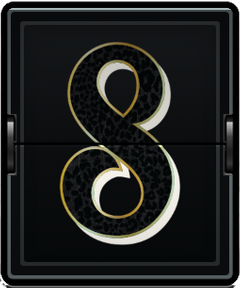
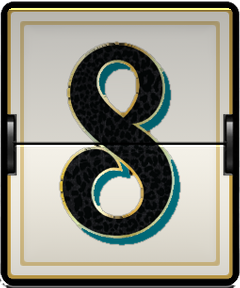
Drafts: career points chip, aligned team column with divider, "via" box; BBP seed tiles all white
- career.mjs (CI): career fantasy points of every drafted player (Sleeper season totals 2009-now,
  league scoring) -> career.json; run in BBP weekly/history and YILM replay
- Pick row: chip under the name on phones, inline on desktop; team column one fixed width behind
  a divider so avatars line up; "from X" replaced by a gold VIA box
- Name fitter checks the name itself (names were silently clipped); shrinks to 13px then wraps
- BBP: seed tiles use the white split-flap set for all seeds (lossless, bit-identical)

Claude-Session: https://claude.ai/code/session_01WQLdFQZ8MkKnuqWv7ZmMze

diff --git a/pipeline/draft_build.py b/pipeline/draft_build.py
@@ -1,7 +1,8 @@
 import os as _dt_os;__DTP__=_dt_os.path.dirname(_dt_os.path.abspath(__file__)).removesuffix('/pos')+'/'
 # Drafts tab: every league draft from the 2021 startup on (history/drafts.json, written by drafts.mjs).
 # One button per year; each draft is listed round by round: pick number (tile in the player's position colour), player,
-# NFL team, and the team that made the pick, with "from <team>" when the pick was traded (original owner).
+# NFL team, career points chip (career.json), and the team that made the pick, with a "via <team>" box when the pick was
+# traded (original owner). The team column has one fixed width behind a divider, so the avatars line up down the round.
 # MFL drafts: the original owner comes from MFL's own note "Pick traded from <name>" (that season's team names).
 # Writes draft_section.html and draft_css.css. Also importable: section(years=None) for the season archive pages.
 import json,html,re
@@ -14,6 +15,17 @@ except Exception:OWN={}
 try:
     import sys;sys.path.insert(0,P);import lg as _lg;OWN=OWN or dict(getattr(_lg,'NICK',{}) or {})
 except Exception:pass
+# career points per drafted player (career.mjs -> career.json; built in CI, absent offline)
+try:CAR=json.load(open(P+'career.json',encoding='utf-8'))
+except Exception:CAR={}
+def _nk(n):
+    n=re.sub(r"[.'’`,]",'',str(n or '').lower()).replace('-',' ');n=re.sub(r'\b(jr|sr|ii|iii|iv|v)\b','',n);return re.sub(r'\s+',' ',n).strip()
+def career(pl,pos):
+    c=CAR.get(_nk(pl)+'|'+({'PK':'K','Def':'DEF'}.get(pos,pos) or ''))
+    if not c:return ''
+    pts,gp,ns,y0,y1,part=c
+    t=(f'Career fantasy points in this league\'s scoring: {pts:,.1f} in {gp} games' + (f', {y0}-{y1}' if y0 else '') + (' (stats from 2009 on)' if part else ''))
+    return f'<span class="dfcp{" z" if not gp else ""}" title="{e(t)}"><b>{pts:,.0f}</b><i>pts</i></span>'
 PC={'QB':'#f7739c','RB':'#3ddcc1','WR':'#5ec6f4','TE':'#fca95c','K':'#c491ff','DEF':'#c98a72','PK':'#c491ff','Def':'#c98a72'}
 NFLFIX={'KCC':'KC','GBP':'GB','NOS':'NO','NEP':'NE','SFO':'SF','TBB':'TB','LVR':'LV','JAC':'JAX','WSH':'WAS','LA':'LAR','FA':None,'FA*':None}
 from nfl_colors import badge_c as badge
@@ -59,8 +71,8 @@ def year_panel(y,d):
         rr=sorted([r for r in rows if r[0]==rd],key=lambda r:r[1])
         out.append(f'<div class="dfr"><div class="dfrh">Round {rd}</div>'+''.join(
             f'<div class="dfp" style="--pc:{PC.get(pos or "", "var(--hair)")}"><i class="dfn"><b>{rd}.{pk:02d}</b><span>{e(pos or "")}</span></i>'
-            f'<div class="dfpl"><b>{e(pl)}</b>{badge(nfl) if nfl else ""}</div>'
-            f'<div class="dfby"><i class="pav" data-avt="{e(by)}" aria-hidden="true"></i><span><b>{e(own(by))}</b>'+(f'<small>from {e(own(orig))}</small>' if orig!=by else '')+'</span></div></div>'
+            f'<div class="dfpl"><span class="dfpn"><b>{e(pl)}</b>{badge(nfl) if nfl else ""}</span>{career(pl,pos)}</div>'
+            f'<div class="dfby"><i class="pav" data-avt="{e(by)}" aria-hidden="true"></i><span><b>{e(own(by))}</b>'+(f'<small class="dfvia"><i>via</i>{e(own(orig))}</small>' if orig!=by else '')+'</span></div></div>'
             for rd_,pk,slot,orig,by,pl,pos,nfl in rr)+'</div>')
     return ''.join(out)
 def section(years=None,idp='df'):
@@ -107,11 +119,29 @@ CSS="""
 .dfs .pav{display:block;border-radius:50%;background-color:var(--deck-2);background-position:center;background-size:cover;background-repeat:no-repeat;box-shadow:0 0 0 1px var(--line-strong)}
 @media(max-width:380px){.dfp{grid-template-columns:42px minmax(0,1fr) auto;column-gap:8px;padding-right:10px}.dfpl b{font-size:14px}.dfby .pav{width:22px;height:22px}}
 @media(min-width:760px){.dfos{grid-template-columns:repeat(10,minmax(0,1fr))}.dfr .dfp{min-height:50px}}
+/* 2026-11-03: team column = one fixed width behind a divider (avatars line up down the round), "via" box for traded
+   picks, career points chip after the NFL badge */
+.dfp{grid-template-columns:46px minmax(0,1fr) var(--dfbw,140px);padding-right:0}
+.dfpl{padding-right:10px;flex-direction:column;align-items:flex-start;justify-content:center;gap:5px;padding-top:7px;padding-bottom:7px}
+.dfpn{display:flex;align-items:center;gap:6px;min-width:0;max-width:100%}
+.dfpn b[style*="normal"]{line-height:1.15!important;overflow:visible!important}
+@media(min-width:760px){.dfpl{flex-direction:row;align-items:center;gap:8px;padding-top:0;padding-bottom:0}}
+.dfby{justify-self:stretch;align-self:stretch;justify-content:flex-start;gap:9px;padding:6px 10px 6px 12px;border-left:3px solid var(--pg,#0c1316);background:rgba(0,0,0,.13)}
+.dfby .pav{width:28px;height:28px}
+.dfby span{gap:4px;zoom:var(--dfz,1)}
+.dfvia{display:inline-flex;align-items:baseline;gap:4px;padding:3px 6px 2px;border-radius:4px;background:rgba(201,161,90,.12);box-shadow:inset 0 0 0 1px rgba(201,161,90,.45);font:600 11px/1 var(--display)!important;letter-spacing:.04em;text-transform:uppercase;color:#d9b568!important}
+.dfvia i{font-style:normal;font-weight:700;font-size:9.5px;color:rgba(217,181,104,.7)}
+.dfcp{flex:none;display:inline-flex;align-items:baseline;gap:3px;padding:3px 6px 2px;border-radius:5px;background:var(--deck-2);box-shadow:inset 0 0 0 1px var(--line-strong),0 1px 0 rgba(0,0,0,.35);font-family:var(--display);line-height:1}
+.dfcp b{font:700 12.5px/1 var(--display)!important;color:var(--chalk)!important;font-variant-numeric:tabular-nums}
+.dfcp i{font-style:normal;font-weight:600;font-size:9.5px;letter-spacing:.06em;text-transform:uppercase;color:var(--steel)}
+.dfcp.z b{color:var(--steel)!important}
+@media(max-width:420px){.dfp{--dfbw:124px}.dfby{padding:6px 8px 6px 10px;gap:7px}.dfby .pav{width:26px;height:26px}}
+@media(max-width:380px){.dfp{--dfbw:112px}.dfby{padding:6px 6px 6px 8px;gap:6px}.dfby .pav{width:22px;height:22px}.dfvia{font-size:10px!important;padding:2px 4px 1px}.dfcp b{font-size:11.5px!important}}
 """
 if __name__=='__main__':
     s=section()
     if s:
-        open(P+'draft_section.html','w',encoding='utf-8').write(s[0]+'<script>(function(){function f(){document.querySelectorAll(".dfpl b").forEach(function(b){b.style.fontSize="";var p=b.parentElement,s=parseFloat(getComputedStyle(b).fontSize);while(p.scrollWidth>p.clientWidth+.5&&s>11){s-=.5;b.style.fontSize=s+"px"}})}f();addEventListener("resize",function(){requestAnimationFrame(f)});document.addEventListener("change",function(){requestAnimationFrame(f)});document.fonts&&document.fonts.ready.then(f)})()</script>')
+        open(P+'draft_section.html','w',encoding='utf-8').write(s[0]+'<script>(function(){function f(){document.querySelectorAll(".dfpl b").forEach(function(b){if(!b.offsetParent)return;b.style.fontSize="";b.style.whiteSpace="";var p=b.parentElement,s0=parseFloat(getComputedStyle(b).fontSize),s=s0,o=function(){return b.scrollWidth>b.clientWidth+.5||p.scrollWidth>p.clientWidth+.5};while(o()&&s>13){s-=.5;b.style.fontSize=s+"px"}if(o()){b.style.fontSize="";b.style.whiteSpace="normal"}});document.querySelectorAll(".dfby").forEach(function(c){if(!c.offsetParent)return;c.style.removeProperty("--dfz");var z=1;while(c.scrollWidth>c.clientWidth+.5&&z>.7){z-=.04;c.style.setProperty("--dfz",z.toFixed(2))}})}f();addEventListener("resize",function(){requestAnimationFrame(f)});document.addEventListener("change",function(){requestAnimationFrame(f)});document.fonts&&document.fonts.ready.then(f)})()</script>')
         open(P+'draft_css.css','w',encoding='utf-8').write(CSS+s[1])
         print('drafts',len(D))
     else:print('no drafts')

diff --git a/pipeline/run.py b/pipeline/run.py
@@ -18,6 +18,8 @@ if mode in('weekly','history') and (mode=='history' or not os.path.exists(P+'his
 # draft history (Drafts tab): fetched once, then kept; a 'history' run refetches the unfinished ones
 if MODE0 in('weekly','history') and (MODE0=='history' or not os.path.exists(P+'history/drafts.json')):
     subprocess.run(['node',P+'drafts.mjs'],cwd=P)  # never fatal
+if MODE0 in('weekly','history'):
+    subprocess.run(['node',P+'career.mjs'],cwd=P)  # Drafts tab: career points of every drafted player (never fatal)
 if mode=='weekly':
     st=json.loads(subprocess.run(['node',P+'pull.mjs','state'],check=True,cwd=P,capture_output=True,text=True).stdout)
     D=st['done'];have=G()

diff --git a/CLAUDE.md b/CLAUDE.md
@@ -60,12 +60,18 @@ Two sister sites built by the same pipeline. This file is identical in both repo
 
 - **Board and tiers**: one card (`#list.board`); each tier is a plain `section.tcard` (built in `draw()`). Rows run edge to edge in alternating shades (first row of each tier lighter, `rgba(238,240,244,.055)`). Each tier header is a band tinted in the tier colour (19%), from the tear line (dotted perforation with a semicircle notch bitten out of each edge; none above Bye) down to just under the tier name, closed by a 2px rule in the tier colour; name / seeds / Line in lighter tints of it. Panel shadow is firm down both sides and along the bottom. Dots (rank dots and last-5) have a dark outer ring (reference: Sleeper-style ringed dots); whole-pixel sizes, `space-between`, ring sized so neighbours never touch. Nicklaus rejected a coloured bar along the card top (looks generic). The class `.tg` is taken (toggle groups).
 - **Desktop (>=1100px)**: one team per row. Left: rank, logo, name, Opp/All-play/Luck, PF, PA, record column (`102px 270px 84px 78px`); right column (after a thin divider): Tot Eff, Dropped pts + Season sim, season chart, stacked by `nrdFit` (all three share one grid cell spanning to a final `1fr` row, so the right stack never stretches the left rows). The left side is identical in Dumb and Nerd.
-- Row: rank numeral art (BBP: split-flap tiles, SQUARED set with housing buffer (`ranknum/r1-12.webp`), white seeds 1-2, dark gold 3-6, pewter 7+, lossless (WebP `exact=True`, bit-identical to the master), cropped to the tile edge, flat (no shadow: mechanical scoreboard look); every tile = the logo's height `--ravh`, centred in one slot `--rks` as wide as the 10 tile (280:288) so logos align; Team Hub uses the same tiles at 44px) + logo 50px (44 ≤380; BBP shadow: 1px ring + identical circle offset 2px/2px + blur at same offset) + name block + right column: W-L record (35.1px; 29.7px for 4-digit records), last-5 dots, streak tile on its own row under the dots (height = the record's cap at 26px), then Could have / Breakdown (shown in Dumb and Nerd; label cap top level with the first stat line clear of the tile, via `rrFit`). Games back and the Leader label were removed 2026-11-03.
+- Row: rank numeral art (BBP: split-flap tiles, SQUARED set with housing buffer (`ranknum/r1-12.webp`), WHITE face on all seeds (Nicklaus found the dark tiles hard to read on teal), lossless (WebP `exact=True`, bit-identical to the master), cropped to the tile edge, flat (no shadow: mechanical scoreboard look); every tile = the logo's height `--ravh`, centred in one slot `--rks` as wide as the 10 tile (280:288) so logos align; Team Hub uses the same tiles at 44px) + logo 50px (44 ≤380; BBP shadow: 1px ring + identical circle offset 2px/2px + blur at same offset) + name block + right column: W-L record (35.1px; 29.7px for 4-digit records), last-5 dots, streak tile on its own row under the dots (height = the record's cap at 26px), then Could have / Breakdown (shown in Dumb and Nerd; label cap top level with the first stat line clear of the tile, via `rrFit`). Games back and the Leader label were removed 2026-11-03.
 - Name block: name (cap top level with logo top) + ▲/▼ change; under it the **FAAB tile** (raised, same shadow depth as the logo; "FAAB" label to its right; tap opens The Wire). YILM: manager nickname under the FAAB line.
 - FAAB data: `pull.mjs faab` → `pull_faab.json` (BBP; run in weekly and live), `season_replay.py` writes it for YILM from the capture; `rebuild.py` emits `FAABB, FAABL, FAABR, FAAB` (current season only); the page re-reads Sleeper rosters on load (`waiver_budget − waiver_budget_used`).
 - Stat lines: Opp rk / All-play / Luck (+ grey `n.nn xW` = all-play win rate × games; luck = wins − xW). PF and PA alabaster with grey `/wk`; dots green only (no gold for #1; the tile shows 1 in gold).
 - Hi/Lo/Avg seed was removed from the card; Team Hub shows "Highest / lowest seed" and "Average seed" (standings positions, `SER[t]['stand']`, not weekly score ranks).
 - Season sim: 1.0 shown gold, no tile; title right-aligned.
+
+## Drafts tab
+
+- Each pick row: pick tile (position colour) | player name + NFL logo, career points chip (on its own line under the name below 760px, inline above) | team column of one fixed width (`--dfbw` 140/124/112px) behind a 3px page-colour divider, so every avatar starts on the same left edge; owner name over a gold "VIA <orig owner>" box when the pick was traded.
+- Career points: `career.mjs` (CI only; BBP `run.py` weekly/history, YILM `season_replay.py` after `drafts.mjs`) matches each drafted player to a Sleeper id by name + position, sums Sleeper season totals 2009-now scored with the league's current scoring settings -> `career.json` (`"<name key>|POS": [pts, games, seasons, first, last, partial]`). Offline builds have no career.json: chips are simply absent. BBP commits it with the weekly data; YILM rebuilds it every run.
+- Name fit: shrink to 13px, else wrap to two lines at full size (never clipped). A long team name in the team column is zoomed down (`--dfz`, to 0.7).
 
 ## Gotchas learned the hard way
 
